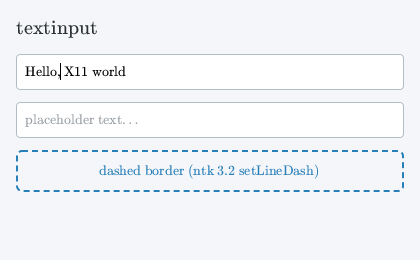
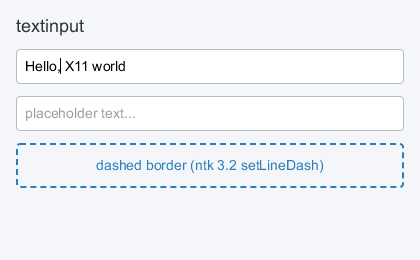
chore: sans-serif README screenshots + committed generator script
The screenshots were set in the KaTeX Main serif — small serif text
reads as a LaTeX document, not a UI. scripts/screenshots.jsx (npm run
screenshots) now regenerates docs/img/*.png headlessly with a system
sans-serif — Arial on macOS, Liberation Sans / DejaVu Sans on Linux
(regular + bold + italic faces), KaTeX fonts as a last resort — and is
committed this time, making the README's regenerated-by-script claim
reproducible.

The script renders the real examples into the in-process X server and
drives them through the real event pipeline: clicks the dashboard
buttons and theme toggle, types into the tasks/form inputs (yielding
between keystrokes so controlled inputs flush each onChange), picks Red
in the Select via its popup window, and captures that popup with the
hovered option highlighted. The previously-unreferenced textinput.png
now illustrates docs/elements.md.

Changed region(s): [[0.031, 0.1846, 0.9595, 0.7385], [0.2167, 0.6154, 0.7738, 0.6769], [0.031, 0.0615, 0.2476, 0.1538]]

diff --git a/scripts/screenshots.jsx b/scripts/screenshots.jsx
@@ -1,0 +1,312 @@
+// Regenerates the README screenshots (docs/img/*.png) headlessly: renders
+// the real examples into node-x11's in-process pure-JS X server, drives
+// them through the real event pipeline (clicks, typing, opening the Select
+// popup), reads pixels back with GetImage and writes PNGs. No $DISPLAY.
+//
+//   npm run screenshots
+//
+// Text is set in a system sans-serif (UI text in a small serif looks like
+// a LaTeX document, not a UI): Arial on macOS, Liberation Sans / DejaVu
+// Sans on Linux, with ntk's bundled KaTeX fonts as a last resort.
+import { existsSync, readFileSync, writeFileSync } from 'node:fs';
+import { createRequire } from 'node:module';
+import { dirname, join } from 'node:path';
+
+import React from 'react';
+import { PNG } from 'pngjs';
+import xserver from 'x11/lib/xserver/index.js';
+import { createClient, StaticFontSource } from 'ntk';
+
+process.env.REACT_X11_NO_AUTORUN = '1';
+const ReactX11 = (await import('../src/index.js')).default;
+const Dashboard = (await import('../examples/dashboard.jsx')).default;
+const Tasks = (await import('../examples/tasks.jsx')).default;
+const Form = (await import('../examples/form.jsx')).default;
+
+const require = createRequire(import.meta.url);
+const katexFontDir = join(
+  dirname(require.resolve('katex/package.json')),
+  'dist',
+  'fonts',
+);
+const outDir = join(
+  dirname(new URL(import.meta.url).pathname),
+  '..',
+  'docs',
+  'img',
+);
+
+// --- fonts -----------------------------------------------------------------
+
+const SANS_CANDIDATES = [
+  {
+    regular: '/System/Library/Fonts/Supplemental/Arial.ttf',
+    bold: '/System/Library/Fonts/Supplemental/Arial Bold.ttf',
+    italic: '/System/Library/Fonts/Supplemental/Arial Italic.ttf',
+  },
+  {
+    regular: '/usr/share/fonts/truetype/liberation/LiberationSans-Regular.ttf',
+    bold: '/usr/share/fonts/truetype/liberation/LiberationSans-Bold.ttf',
+    italic: '/usr/share/fonts/truetype/liberation/LiberationSans-Italic.ttf',
+  },
+  {
+    regular: '/usr/share/fonts/truetype/dejavu/DejaVuSans.ttf',
+    bold: '/usr/share/fonts/truetype/dejavu/DejaVuSans-Bold.ttf',
+  },
+];
+
+const MONO_CANDIDATES = [
+  {
+    regular: '/System/Library/Fonts/Supplemental/Courier New.ttf',
+    bold: '/System/Library/Fonts/Supplemental/Courier New Bold.ttf',
+  },
+  {
+    regular: '/usr/share/fonts/truetype/liberation/LiberationMono-Regular.ttf',
+  },
+  { regular: '/usr/share/fonts/truetype/dejavu/DejaVuSansMono.ttf' },
+];
+
+function addFamily(source, family, candidates, katexFallback) {
+  const found = candidates.find((c) => existsSync(c.regular));
+  if (!found) {
+    source.add(readFileSync(join(katexFontDir, katexFallback)), { family });
+    return katexFallback;
+  }
+  source.add(readFileSync(found.regular), { family });
+  if (found.bold && existsSync(found.bold)) {
+    source.add(readFileSync(found.bold), { family, weight: 700 });
+  }
+  if (found.italic && existsSync(found.italic)) {
+    source.add(readFileSync(found.italic), { family, style: 'italic' });
+  }
+  return found.regular;
+}
+
+function makeFontSource() {
+  const source = new StaticFontSource();
+  const sans = addFamily(
+    source,
+    'UI Sans',
+    SANS_CANDIDATES,
+    'KaTeX_Main-Regular.ttf',
+  );
+  const mono = addFamily(
+    source,
+    'UI Mono',
+    MONO_CANDIDATES,
+    'KaTeX_Typewriter-Regular.ttf',
+  );
+  source.alias('sans-serif', 'UI Sans');
+  source.alias('monospace', 'UI Mono');
+  return { source, sans, mono };
+}
+
+// --- harness ---------------------------------------------------------------
+
+const sleep = (ms) => new Promise((resolve) => setTimeout(resolve, ms));
+
+async function makeApp() {
+  const server = xserver.createServer({ width: 800, height: 600 });
+  const [serverEnd, clientEnd] = xserver.createStreamPair();
+  server.addClientStream(serverEnd);
+  const app = await createClient({
+    stream: clientEnd,
+    fontSource: makeFontSource().source,
+  });
+  // Record created windows: scenes read the main window from here (the
+  // render callback's public instance is null for function-component
+  // roots) and capture / click into Select's popup windows.
+  const created = [];
+  const popups = [];
+  const orig = app.createWindow.bind(app);
+  app.createWindow = (attributes) => {
+    const wnd = orig(attributes);
+    created.push(wnd);
+    if (attributes?.overrideRedirect) popups.push(wnd);
+    return wnd;
+  };
+  app.created = created;
+  app.popups = popups;
+  return app;
+}
+
+const render = (element, app) =>
+  new Promise((resolve) =>
+    ReactX11.render(element, () => resolve(app.created[0]), app),
+  );
+
+/** Depth-first search over the retained node tree of a realized window. */
+function findNode(node, pred) {
+  if (pred(node)) return node;
+  for (const child of node.children) {
+    if (child.isWindow) continue;
+    const found = findNode(child, pred);
+    if (found) return found;
+  }
+  return null;
+}
+
+/** The drawn node whose <text> content is exactly `label`. */
+function labeled(wnd, label) {
+  const text = findNode(
+    wnd._reactX11Node,
+    (n) =>
+      n.kind === 'text' &&
+      n.children.some((c) => c.kind === 'textchunk' && c.text === label),
+  );
+  if (!text) throw new Error(`no <text> "${label}" in the tree`);
+  return text;
+}
+
+function click(wnd, x, y) {
+  wnd.emit('mousedown', { x, y, keycode: 1 });
+  wnd.emit('mouseup', { x, y, keycode: 1 });
+}
+
+const clickNode = (wnd, node) =>
+  click(wnd, node.abs.x + node.abs.width / 2, node.abs.y + node.abs.height / 2);
+
+/** Type through the real key pipeline: EventManager reads the keysym from
+ * the client keymap, so register one synthetic keycode per keystroke.
+ * Controlled inputs re-render between keystrokes — yield so React flushes
+ * each onChange before the next key computes from the current value. */
+async function typeText(app, wnd, text) {
+  for (const ch of text) {
+    const codepoint = ch.codePointAt(0);
+    app.X.keycode2keysyms[254] = [codepoint];
+    wnd.emit('keydown', { keycode: 254, codepoint, buttons: 0 });
+    wnd.emit('keyup', { keycode: 254, codepoint, buttons: 0 });
+    await sleep(0);
+  }
+}
+
+async function shot(wnd, name) {
+  await sleep(250); // let the frame clock paint
+  const { width, height } = wnd;
+  const ctx = wnd.getContext('2d');
+  const data = await new Promise((resolve, reject) =>
+    ctx.getImageData(0, 0, width, height, (err, d) =>
+      err ? reject(err) : resolve(d),
+    ),
+  );
+  const png = new PNG({ width, height });
+  for (let i = 0; i < width * height; i++) {
+    png.data[i * 4 + 0] = data.data[i * 4 + 2]; // BGRA -> RGBA
+    png.data[i * 4 + 1] = data.data[i * 4 + 1];
+    png.data[i * 4 + 2] = data.data[i * 4 + 0];
+    png.data[i * 4 + 3] = 255;
+  }
+  const file = join(outDir, `${name}.png`);
+  writeFileSync(file, PNG.sync.write(png));
+  console.log(`wrote ${file} (${width}x${height})`);
+}
+
+async function scene(fn) {
+  const app = await makeApp();
+  try {
+    await fn(app);
+    ReactX11.unmountComponentAtNode(app);
+  } finally {
+    await app.close();
+  }
+}
+
+// --- scenes ----------------------------------------------------------------
+
+await scene(async (app) => {
+  const wnd = await render(React.createElement(Dashboard), app);
+  await sleep(100);
+  const plus = labeled(wnd, '+1');
+  clickNode(wnd, plus);
+  clickNode(wnd, plus);
+  clickNode(wnd, labeled(wnd, 'Dark')); // the dark theme photographs better
+  await sleep(50);
+  await shot(wnd, 'dashboard');
+});
+
+await scene(async (app) => {
+  const wnd = await render(React.createElement(Tasks), app);
+  await sleep(100);
+  const input = findNode(wnd._reactX11Node, (n) => n.kind === 'textinput');
+  clickNode(wnd, input);
+  await typeText(app, wnd, 'Buy milk');
+  await shot(wnd, 'tasks');
+});
+
+await scene(async (app) => {
+  const wnd = await render(React.createElement(Form), app);
+  await sleep(100);
+  const input = findNode(wnd._reactX11Node, (n) => n.kind === 'textinput');
+  clickNode(wnd, input);
+  await typeText(app, wnd, 'Andrey');
+
+  // pick "Red" in the first Select: open it, click the option in the popup
+  clickNode(wnd, labeled(wnd, 'Blue'));
+  await sleep(150);
+  const menu = app.popups.at(-1);
+  clickNode(menu, labeled(menu, 'Red'));
+  await sleep(150);
+
+  clickNode(wnd, labeled(wnd, 'Sign'));
+  await shot(wnd, 'form');
+
+  // reopen the Select and capture the popup window itself, with the
+  // pointer hovering the selected option
+  clickNode(wnd, labeled(wnd, 'Red'));
+  await sleep(150);
+  const reopened = app.popups.at(-1);
+  const red = labeled(reopened, 'Red');
+  reopened.emit('mousemove', {
+    x: red.abs.x + 5,
+    y: red.abs.y + red.abs.height / 2,
+  });
+  await sleep(50);
+  await shot(reopened, 'select-menu');
+});
+
+await scene(async (app) => {
+  const wnd = await render(
+    <window width={420} height={260} backgroundColor="#f5f6fa">
+      <box flexGrow={1} padding={16} gap={12}>
+        <text fontSize={18} color="#2d3436">
+          textinput
+        </text>
+        <textinput
+          defaultValue="Hello, X11 world"
+          padding={8}
+          borderRadius={4}
+          borderWidth={1}
+          borderColor="#b2bec3"
+          backgroundColor="white"
+        />
+        <textinput
+          placeholder="placeholder text..."
+          padding={8}
+          borderRadius={4}
+          borderWidth={1}
+          borderColor="#b2bec3"
+          backgroundColor="white"
+        />
+        <box
+          padding={12}
+          borderWidth={2}
+          borderColor="#2980b9"
+          borderStyle="dashed"
+          borderRadius={4}
+          alignItems="center"
+        >
+          <text color="#2980b9">dashed border (ntk 3.2 setLineDash)</text>
+        </box>
+      </box>
+    </window>,
+    app,
+  );
+  await sleep(100);
+  // click right after "Hello," so the caret shows mid-text
+  const input = findNode(wnd._reactX11Node, (n) => n.kind === 'textinput');
+  const content = input.contentBox();
+  click(wnd, content.x + input._prefixWidth(6), content.y + 5);
+  await shot(wnd, 'textinput');
+});
+
+process.exit(0);

diff --git a/AGENTS.md b/AGENTS.md
@@ -57,6 +57,12 @@ no override-redirect staging (issue #4).
 - `npm run lint` / `npm run format` — ESLint 9 (flat config) + Prettier.
 - `npm run examples:{simple,simple-nojsx,xeyes,dashboard,tasks}` — need a
   running X server (`DISPLAY` set; XQuartz on macOS, Xvfb for automation).
+- `npm run screenshots` — regenerate the README/docs images
+  (`docs/img/*.png`) headlessly: renders the real examples into the
+  in-process X server, drives them through the real event pipeline, and
+  sets text in a system sans-serif (Arial / Liberation / DejaVu — small
+  serif text reads as a document, not a UI). Run it whenever a change
+  affects how the examples look.
 
 ## Gotchas
 

diff --git a/README.md b/README.md
@@ -137,9 +137,10 @@ Two more debugging aids:
 ## Developing
 
 ```sh
-npm test          # hermetic: mock smoke tests + in-process X server pixels
-npm run lint      # ESLint
-npm run format    # Prettier
+npm test             # hermetic: mock smoke tests + in-process X server pixels
+npm run lint         # ESLint
+npm run format       # Prettier
+npm run screenshots  # regenerate docs/img/*.png headlessly (no X server)
 ```
 
 See [AGENTS.md](AGENTS.md) for architecture notes and contributor/agent

diff --git a/docs/elements.md b/docs/elements.md
@@ -105,6 +105,8 @@ run list so wrapping spans the whole content.
 
 ## `<textinput>`
 
+![textinput](img/textinput.png)
+
 Single-line editable text. Caret and selection geometry come from ntk's
 `TextLayout.caretPosition`/`indexAt` (ntk ≥ 3.3.0), so positions are exact
 across kerning, shaping boundaries and trailing whitespace.
